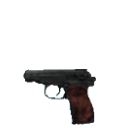
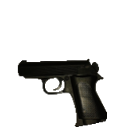
animation du pistolet

Changed region(s): [[0.125, 0.4375, 0.8438, 1.0]]

diff --git a/src/multi/thing/weapon/HandGun.java b/src/multi/thing/weapon/HandGun.java
@@ -2,10 +2,17 @@ package multi.thing.weapon;
 
 import java.awt.image.BufferedImage;
 
+import multi.tools.ImageLoader;
 import multi.tools.MagasinImage;
 import multi.tools.raycasting.Vector2D;
 
 public class HandGun extends Weapon {
+
+	public final BufferedImage[] sprites = { ImageLoader.loadBufferedImage("handgunhud0.png"),
+			ImageLoader.loadBufferedImage("handgunhud1.png"), ImageLoader.loadBufferedImage("handgunhud2.png"),
+			ImageLoader.loadBufferedImage("handgunhud3.png") };
+
+	private int cpt;
 
 	public HandGun(Vector2D pos) {
 		super(pos);
@@ -13,6 +20,7 @@ public class HandGun extends Weapon {
 		RoF = 2;
 		DpS = 50;
 		RaoF = 10;
+		cpt = 0;
 	}
 
 	@Override
@@ -30,7 +38,31 @@ public class HandGun extends Weapon {
 
 	@Override
 	public BufferedImage getSpriteHUD() {
-		return MagasinImage.buffHandGunHUD;
+
+		Thread threadAnimation = new Thread(new Runnable() {
+
+			@Override
+			public void run() {
+				try {
+
+					for (cpt = 1; cpt < 4; cpt++) {
+						Thread.sleep(100);
+					}
+					cpt = 0;
+
+				} catch (InterruptedException e) {
+
+					e.printStackTrace();
+				}
+
+			}
+		});
+
+		if (isFiring) {
+			isFiring = false;
+			threadAnimation.start();
+		}
+		return sprites[cpt];
 	}
 
 	@Override

diff --git a/src/multi/Logique.java b/src/multi/Logique.java
@@ -292,6 +292,7 @@ public class Logique extends KeyAdapter {
 				public void run() {
 					try {
 						isFiring = true;
+						heros.getArme().setFiring(true);
 						Thread.sleep((long) (1000 / heros.getArme().getRoF()));
 						isFiring = false;
 					} catch (InterruptedException e) {
@@ -307,6 +308,7 @@ public class Logique extends KeyAdapter {
 				threadRoF.start();
 
 				heros.getArme().subAmmo(1);
+				
 
 				double posx = heros.getPosition().getdX();
 				double posy = heros.getPosition().getdY();
@@ -336,7 +338,7 @@ public class Logique extends KeyAdapter {
 					System.out.println("Ennemie " + ennemieTouche.hashCode() + " : vie restante: "
 							+ ennemieTouche.getVie() + " / armure restante: " + ennemieTouche.getArmure());
 					if (ennemieTouche.getMort()) {
-						iterator.remove();
+						listEnnemie.remove(ennemieTouche);
 						listeThings.remove(ennemieTouche);
 					}
 				}

diff --git a/src/multi/tools/MagasinImage.java b/src/multi/tools/MagasinImage.java
@@ -27,7 +27,6 @@ public class MagasinImage {
 	public static final BufferedImage buffMedipack = ImageLoader.loadBufferedImage("medipack.png");
 	public static final BufferedImage buffArmure = ImageLoader.loadBufferedImage("armure.png");
 	public static final BufferedImage buffHandGun = ImageLoader.loadBufferedImage("handgun.png");
-	public static final BufferedImage buffHandGunHUD = ImageLoader.loadBufferedImage("handgunhud.png");
 	public static final BufferedImage buffAmmoPackHG = ImageLoader.loadBufferedImage("ammopackHG.png");
 
 	public static final BufferedImage buffFantome0 = ImageLoader.loadBufferedImage("images fantome/fantome0.png");

diff --git a/src/multi/Camera.java b/src/multi/Camera.java
@@ -144,7 +144,7 @@ public class Camera extends Renderer {
 			renderThings();
 			g2d.drawImage(bufferThings, 0, 0, null);
 
-			drawCursor(g2d);
+			// drawCursor(g2d);
 			drawWeapon(g2d);
 		}
 	}
@@ -162,7 +162,7 @@ public class Camera extends Renderer {
 
 	private void drawWeapon(Graphics2D g2d) {
 		if (logique.heros.getArme() != null) {
-			g2d.drawImage(logique.heros.getArme().getSpriteHUD(), null, getWidth() / 2,
+			g2d.drawImage(logique.heros.getArme().getSpriteHUD(), null, getWidth() / 2 - 80,
 					getHeight() - logique.heros.getArme().getSpriteHUD().getHeight());
 		}
 	}

diff --git a/src/multi/thing/weapon/Weapon.java b/src/multi/thing/weapon/Weapon.java
@@ -11,6 +11,7 @@ public abstract class Weapon extends Thing {
 	protected double RoF;
 	protected double RaoF;
 	protected int ammo;
+	protected boolean isFiring;
 
 	public abstract int computeDamage(double d);
 
@@ -41,5 +42,15 @@ public abstract class Weapon extends Thing {
 	public Weapon(Vector2D pos) {
 		super(pos);
 	}
+	
+
+	public boolean isFiring() {
+		return isFiring;
+	}
+
+	public void setFiring(boolean isFiring) {
+		this.isFiring = isFiring;
+	}
+
 
 }

diff --git a/src/tests/kryonet/implem/MainClient.java b/src/tests/kryonet/implem/MainClient.java
@@ -18,7 +18,7 @@ import com.esotericsoftware.kryonet.Listener;
 public class MainClient {
 
 	public static void main(String[] args) {
-		String serverIp = "157.26.111.186";
+		String serverIp = "157.26.88.179";
 
 		JFrame frame = new JFrame();
 		frame.setSize(500, 400);
